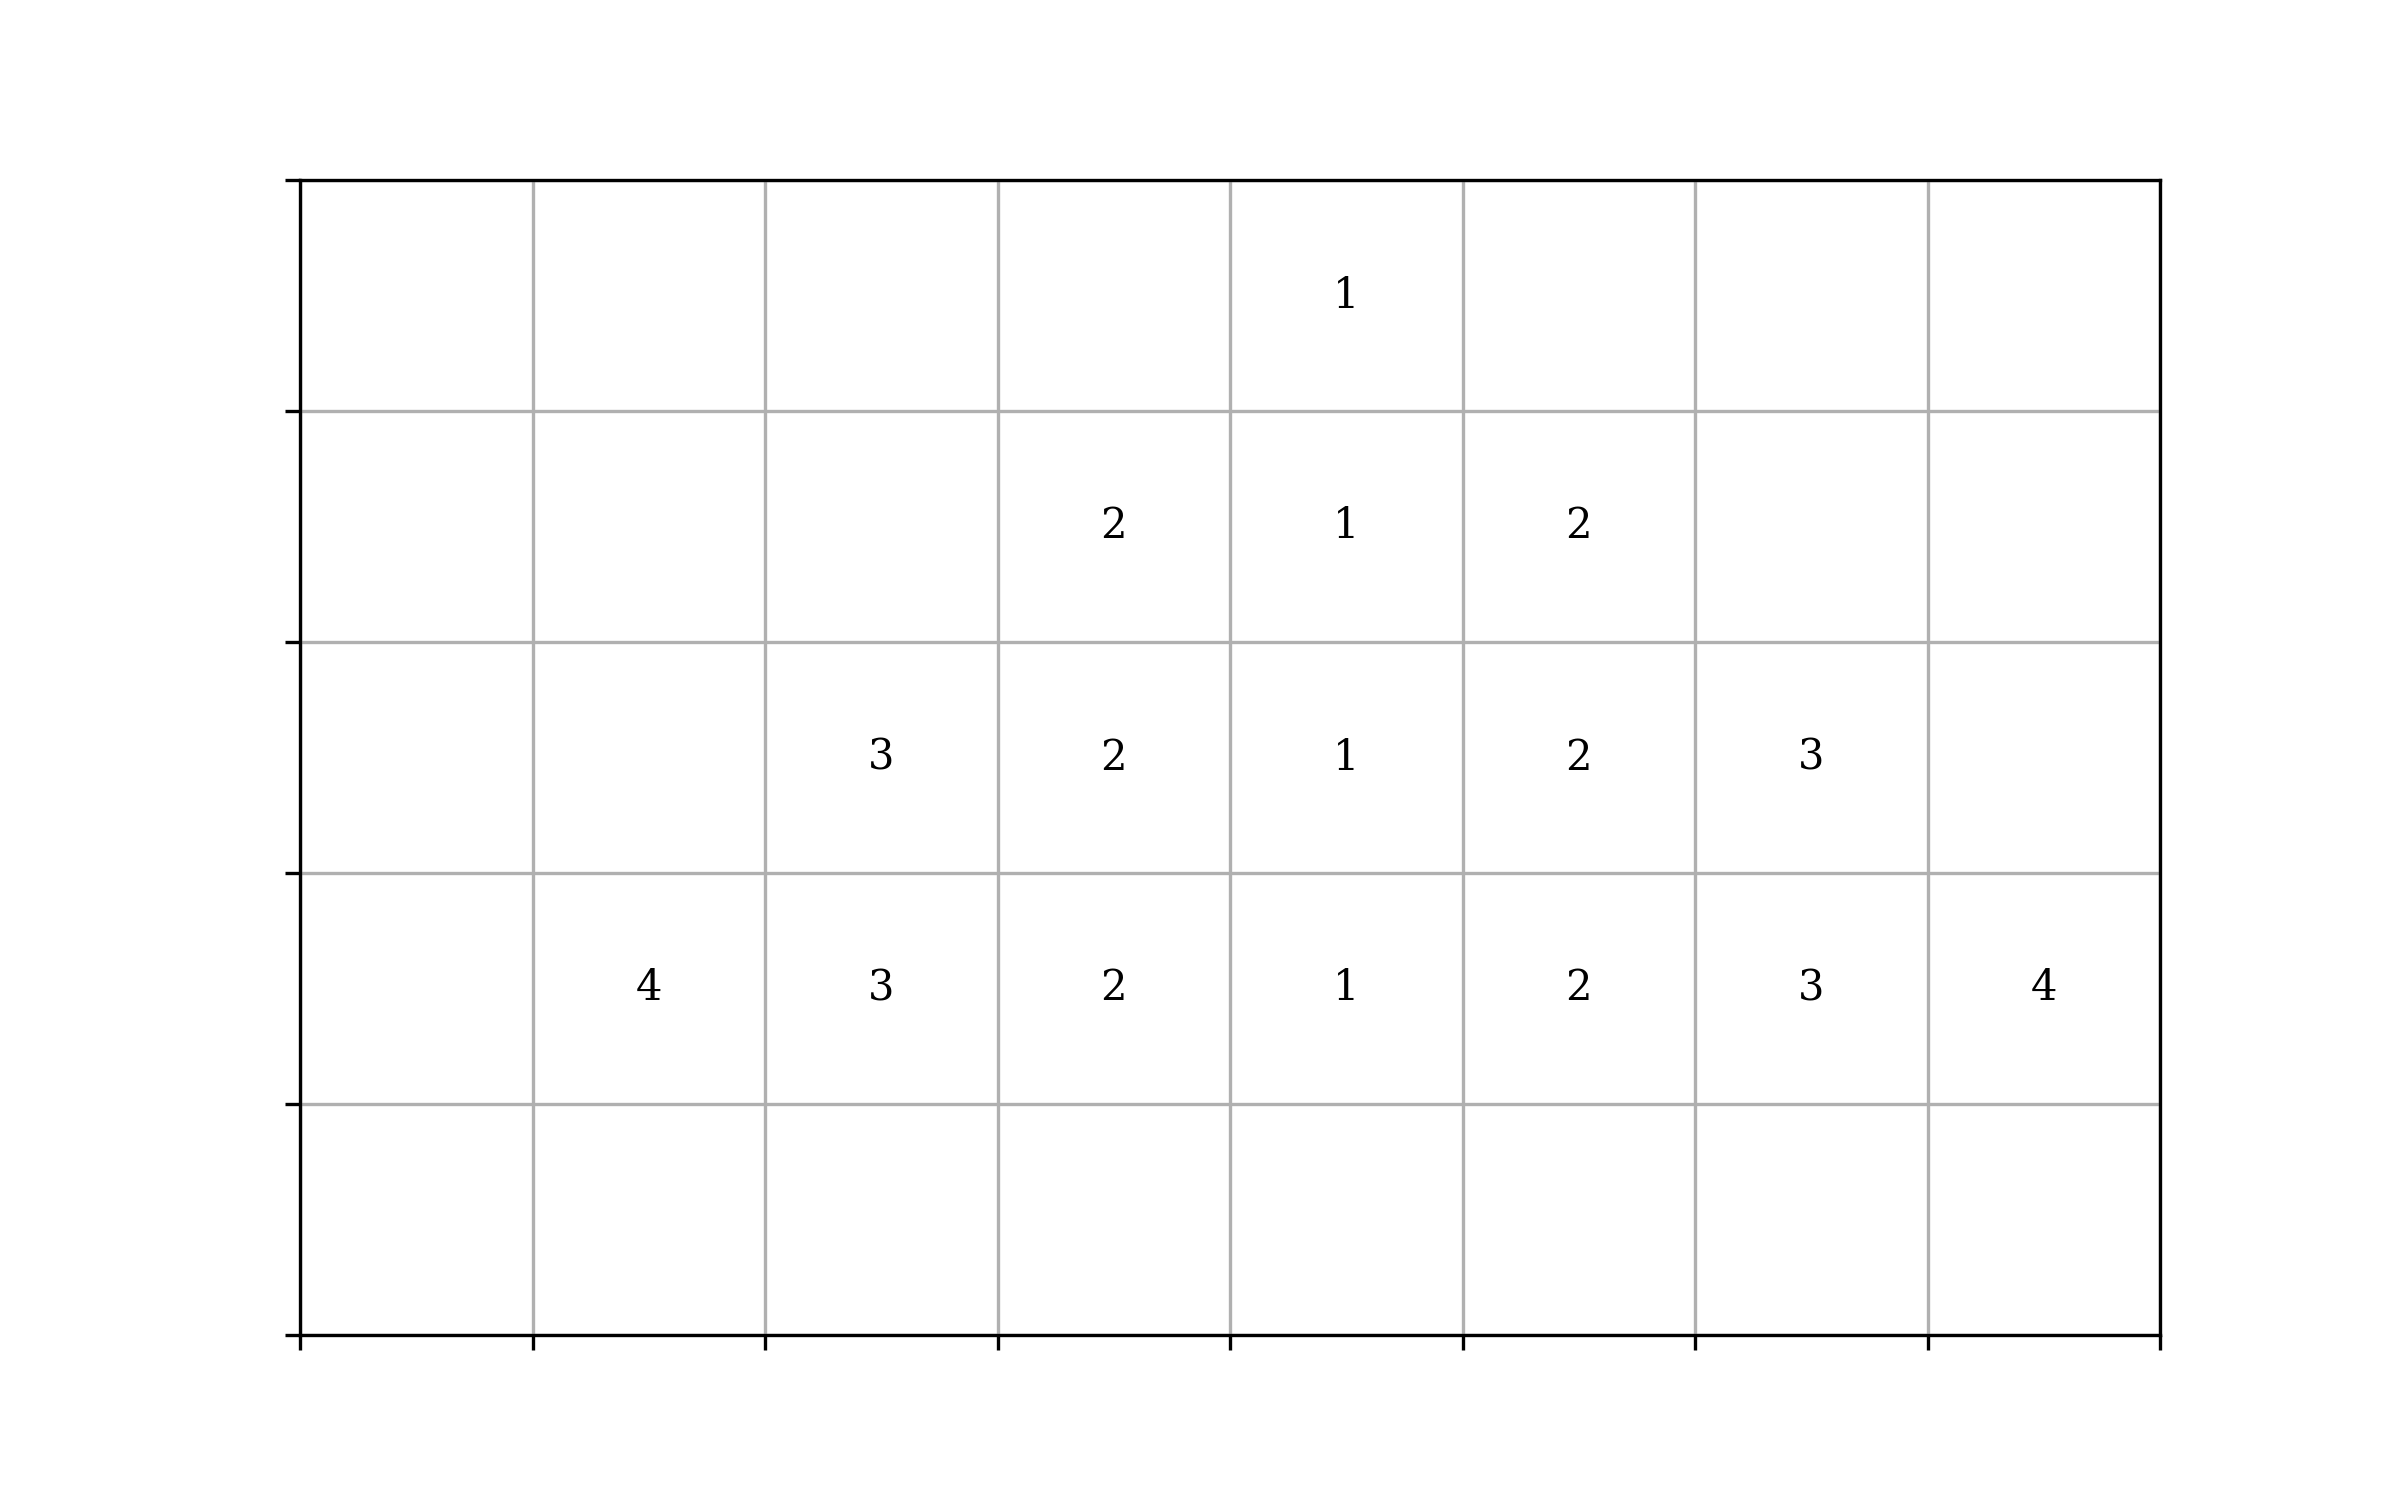
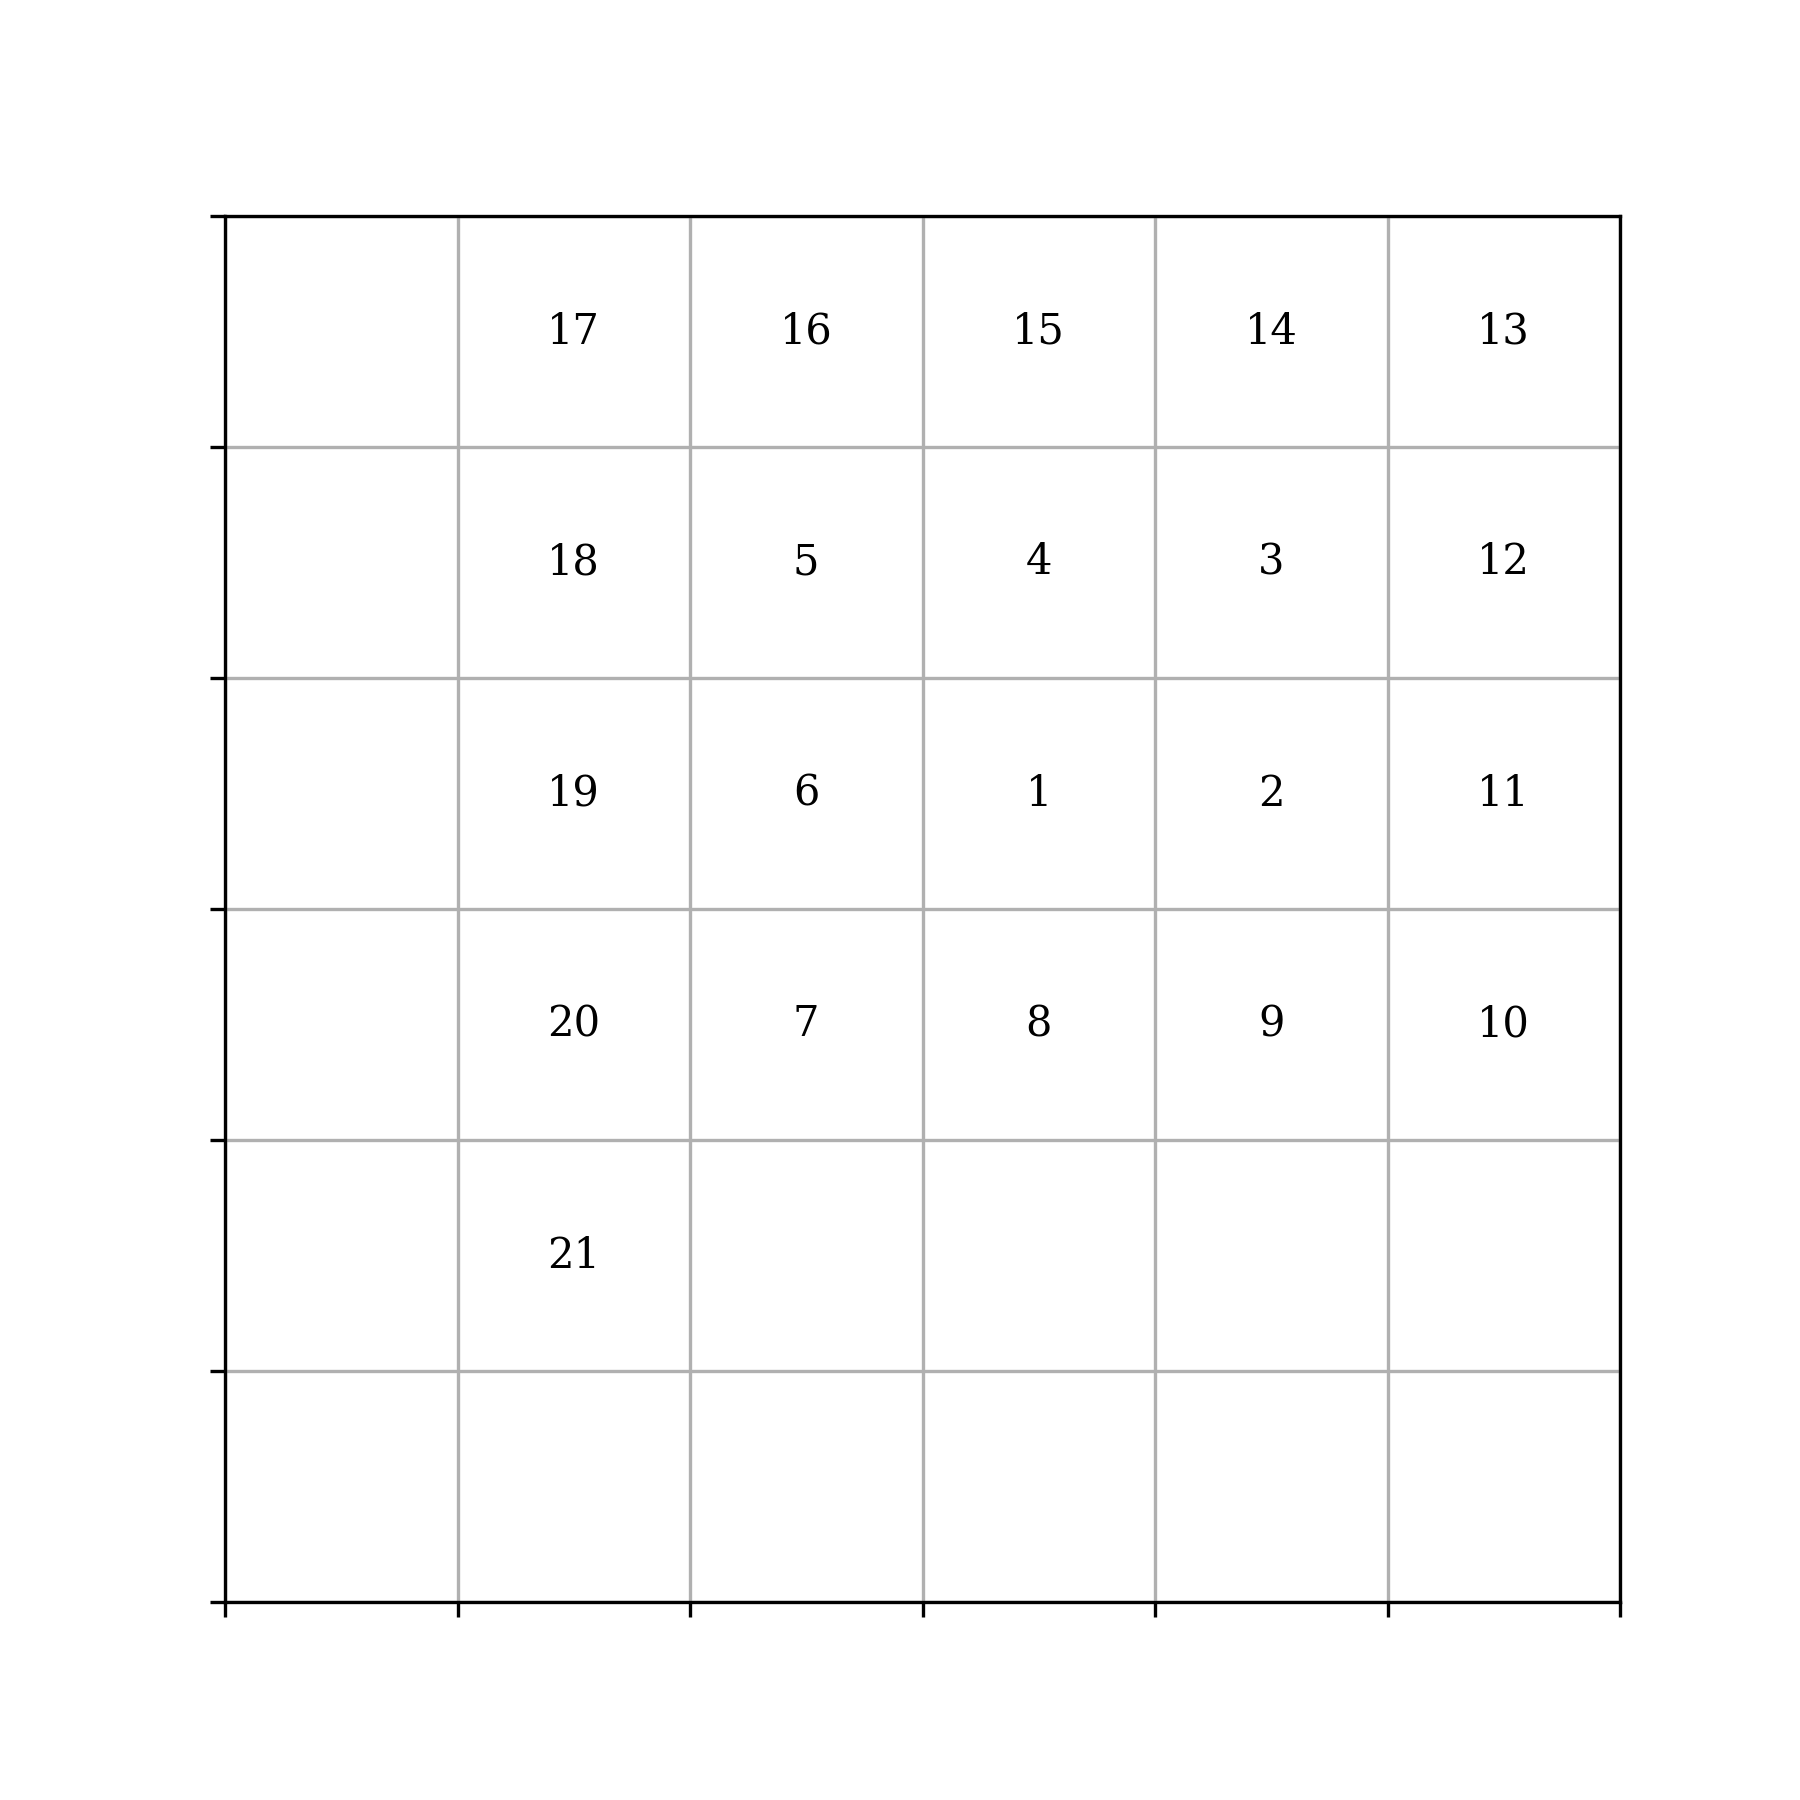
Added grid

diff --git a/TTable.py b/TTable.py
@@ -1,6 +1,7 @@
 import logging
 logger = logging.getLogger(__name__)
 
+from matplotlib import rcParams
 import matplotlib.pyplot as plt
 import numpy as np
 
@@ -20,6 +21,14 @@ class TTable:
         self.rows=max_row-min_row+1
         self.cols=max_col-min_col+1
 
+        self.Elems=[]
+        elems.pop(0)
+        for e in elems:
+            r=e.pos.row-min_row
+            c=e.pos.col-min_col
+            val=e.val
+            self.Elems.append((r,c,val))
+
         self.M = []
         for r in range(0, self.rows):
             row = []
@@ -35,7 +44,6 @@ class TTable:
 
 
     def plot(self):
-        from matplotlib import rcParams
         rcParams['font.family']='serif'
         rcParams['font.size']=10
 
@@ -58,6 +66,43 @@ class TTable:
         plt.show()
 
         pass
+
+    def grid(self):
+        rcParams['font.family']='serif'
+        rcParams['font.size']=10
+        plt.figure(figsize=(8,8))
+
+        rows = self.rows
+        cols = self.cols
+        plt.axis([0,cols,rows,0])
+
+        self.side=10
+        self.margin=15
+
+        for e in self.Elems:
+            self.write(e)
+
+
+        a=np.linspace(0,cols,cols,[])
+        plt.xticks(a," ")
+        plt.yticks(np.linspace(0,rows,rows,[])," ")
+        plt.grid(linestyle="solid")
+        plt.show()
+
+
+    def write(self,rcv):
+        row=rcv[0]
+        col=rcv[1]
+        val=rcv[2]
+
+        x=(col+1)/2
+        y=(row+1)/2
+
+        x=col+0.5
+        y=row+0.5
+
+        plt.text(x,y,val,horizontalalignment='center',verticalalignment='center')
+
 
     def isPrime(n):
         return n > 1 and all(n%i for i in islice(count(2), int(sqrt(n)-1)))

diff --git a/TSeq.py b/TSeq.py
@@ -18,8 +18,10 @@ class TSeq:
         #stream = antlr4.InputStream("(2*1)N[Z:2]")
         #stream = antlr4.InputStream("[Z]N:2W:1")
         #stream = antlr4.InputStream("3[L]N:2W:1")
-        #stream = antlr4.InputStream("{I+1}((T+1)/2)E;(T/2)N;((T+1)/2)W;(T/2)S;")
-        stream = antlr4.InputStream("{j/2+1} [((l-1)^2)+1]S,(l)[(l^2)+1]EW:(j/2);")
+        # The cube
+        stream = antlr4.InputStream("{i}((l+1)/2)E;(l/2)N;((l+1)/2)W;(l/2)S;")
+        # The pyramid
+        #stream = antlr4.InputStream("{j/2+1} [((l-1)^2)+1]S,(l)[(l^2)+1]EW:(j/2);")
         #stream = antlr4.InputStream("{j} N,E;")
 
         self.Walker=None

diff --git a/main.py b/main.py
@@ -5,7 +5,7 @@ from TTable import *
 def main():
     S=TSeq()
 
-    while S.Context['i']<10:
+    while S.Context['i']<50:
         S.Walk()
 
 
@@ -13,7 +13,8 @@ def main():
         print(e.getText())
 
     t=TTable(S.Context['elems'])
-    t.plot()
+    #t.plot()
+    t.grid()
     pass
 
 
